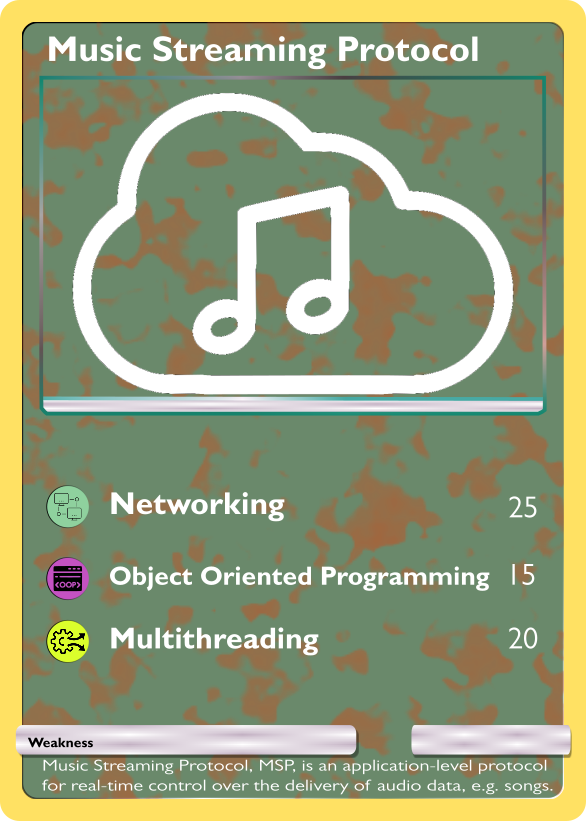
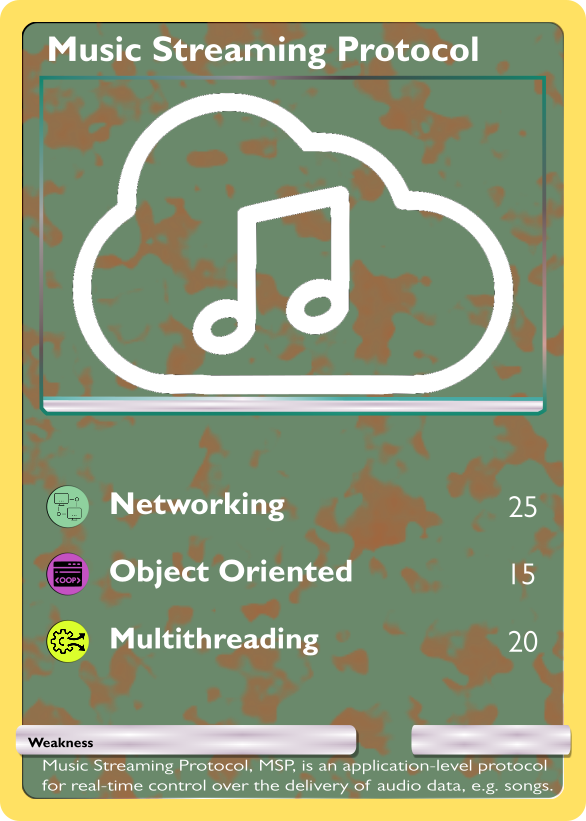
added alt text to cards 18

Changed region(s): [[0.1843, 0.6699, 0.8294, 0.7308], [0.0614, 0.6699, 0.1536, 0.7308], [0.8601, 0.7613, 0.9215, 0.7917]]

diff --git a/src/app/page.tsx b/src/app/page.tsx
@@ -31,22 +31,46 @@ export default function Home() {
     attributes: Big Data, Machine Learning, Data Visualization. 
     Description: Using feed forward neural networks and CSGO player statistics, a game result was predicted `;
 
-  let bicycle_gan_alt_text = `Implemented BicycleGAN which is an extension of CycleGAN that links basic GAN and VAE models in order to map an edge image into multiple RGB images
-  
-  
+  let bicycle_gan_alt_text = `
+  attributes: Machine Learning, Big Data, Research
+  Description:
+  Implemented BicycleGAN which is an extension of CycleGAN that links basic GAN and VAE models in order to map an edge image into multiple RGB images
   `
+  let kd_alt_text = `
+  attributes: Data Structures and Algorithims, Data Analytics, Image Processing :
+  Description: Using K-d trees, compressed the color space of an image while minimizing the variance between colors`
+  let nba_awards_alt_text = `
+  attributes: Data Structures and Algorithims, Web Scraping, Object Oriented
+  Description: Player awards are predicted using polynomial functions based on the current NBA stats`
+  let lyric_gen_alt_text = `
+  attributes:  Big Data, Machine Learning, API Usage
+  Description: Applied various machine learing models to the task of generating lyrics given a starting phrase`;
+  let nba_shot_chart_alt_text = `
+    attributes: Object Oriented, API Usage, Data Visualization
+  Description: Produces a visualization of player or team shot charts and compares the charts to league avgerage`;
+  let ram_design_alt_text = `
+    attributes: Circuit Design, Circuit Simulation, Circuit Optimization
+  Description: Using Electric and NgSpice, designed a 16 x 4 bit RAM array and tested read and write up 1GHZ`;
+  let music_streaming_alt_text = `
+    attributes: Networking, Object Oriented, Multithreading
+  Description: Music Streaming Protocol, MSP, is an application-level protocol for real-time control over the delivery of audio data, e.g. songs.`;
+  let snake_ai_alt_text = `
+    attributes: Data Structures and Algorithims,  Machine Learning, Q-Learning
+  Description: A naive approach to solving the game of snake using a Deep Q-Learning Model.`;
+  let adder_alt_text = `
+    attributes: Circuit Design, Circuit Simulation, Circuit Optimization
+  Description: Using Electric and NgSpice, designed and tested an 8-bit adder with several varation to the design  `
 
-
-  let cards = [ <ProjectCard key={0} project_svg_name="KdTreesCard.png" alt_text="" href="kd_trees"/>,
-    <ProjectCard key={1} project_svg_name="NbaAwardsCard.png" alt_text="" href="nba_awards_predictor"/>,
-    <ProjectCard key={2}  project_svg_name="BicycleGan.png" alt_text="" href="bicyclegan"/>,
-    <ProjectCard key={3} project_svg_name="LyricGenAI.png" alt_text="" href="lyric_gen"/>,
-    <ProjectCard key={4} project_svg_name="NbaShotChartCard.png" alt_text="" href="nba_shot_chart"/>,
-    <ProjectCard key={5} project_svg_name="RamCard.png" alt_text="" href="ram_design"/> ,
-    <ProjectCard key={6} project_svg_name="MusicStreamingCard.png" alt_text="" href="music_streaming"/>,
+  let cards = [ <ProjectCard key={0} project_svg_name="KdTreesCard.png" alt_text={kd_alt_text} href="kd_trees"/>,
+    <ProjectCard key={1} project_svg_name="NbaAwardsCard.png" alt_text={nba_awards_alt_text} href="nba_awards_predictor"/>,
+    <ProjectCard key={2}  project_svg_name="BicycleGan.png" alt_text={bicycle_gan_alt_text} href="bicyclegan"/>,
+    <ProjectCard key={3} project_svg_name="LyricGenAI.png" alt_text={lyric_gen_alt_text} href="lyric_gen"/>,
+    <ProjectCard key={4} project_svg_name="NbaShotChartCard.png" alt_text={nba_shot_chart_alt_text} href="nba_shot_chart"/>,
+    <ProjectCard key={5} project_svg_name="RamCard.png" alt_text={ram_design_alt_text} href="ram_design"/> ,
+    <ProjectCard key={6} project_svg_name="MusicStreamingCard.png" alt_text={music_streaming_alt_text} href="music_streaming"/>,
     <ProjectCard key={7} project_svg_name="CSGOCARD.png" alt_text={csgo_card_alt_text} href="csgo_predictor"/>,
-    <ProjectCard key={8} project_svg_name="SnakeAICard.png" alt_text="" href="simple_dqn" />,
-    <ProjectCard key={9} project_svg_name="AdderCard.png" alt_text="" href="adder" />]
+    <ProjectCard key={8} project_svg_name="SnakeAICard.png" alt_text={snake_ai_alt_text} href="simple_dqn" />,
+    <ProjectCard key={9} project_svg_name="AdderCard.png" alt_text={adder_alt_text} href="adder" />]
 
   
     const { ref, inView, entry } = useInView(
@@ -70,44 +94,22 @@ export default function Home() {
      
      <InView as="div" onChange={(inView, entry) => {entry.target.children[0].classList.add('show')}} className={`transition-opacity duration-1000 ${inView ? 'opacity-100 shown' : 'opacity-0'}`}>
       <div ref={ref}>
-          Lorem ipsum dolor sit amet, consectetur adipiscing elit. Quisque posuere tristique pretium. Aliquam malesuada laoreet sapien, eu feugiat ligula gravida in. Maecenas porta eu odio eget congue. Nulla turpis nisi, faucibus at vehicula et, sodales sit amet risus. Integer quis turpis porta, pellentesque neque id, tincidunt tellus. Etiam ligula erat, molestie ut laoreet id, hendrerit rhoncus justo. Aliquam dui felis, tristique at augue ac, vestibulum molestie nisi. Sed fermentum, erat quis molestie volutpat, ex sem ultricies magna, vel consequat enim lectus sed massa. Mauris eget justo feugiat dui volutpat vehicula a sit amet purus. Nullam tincidunt condimentum ligula, eget hendrerit nunc. Fusce sed lectus suscipit, dapibus velit convallis, rhoncus enim. Pellentesque vel metus id mi molestie laoreet. Sed sit amet ligula orci. Curabitur scelerisque ex nec felis lobortis hendrerit. Praesent vitae tincidunt metus. Pellentesque eu magna lacinia, cursus orci sed, convallis quam.
-
-        Fusce dictum ac ligula nec accumsan. Praesent non sapien vitae magna vestibulum tempus in vel metus. Nullam tincidunt venenatis felis, ut convallis risus lobortis id. Donec quam massa, sagittis nec tristique ac, tincidunt nec enim. Curabitur congue ultrices varius. Pellentesque pretium nunc non tellus tempor condimentum. Integer vel laoreet ante. Morbi tempor ut lorem ac iaculis. Vivamus ultricies tempor nisi, consectetur ullamcorper ex rutrum et. Curabitur rhoncus mattis odio non tincidunt.
-
-        Maecenas vel ante eu libero sodales ullamcorper nec nec ipsum. Vestibulum felis nulla, mattis eget aliquet non, suscipit non lectus. Maecenas egestas orci non leo ullamcorper volutpat. Donec lacus purus, hendrerit ut dignissim non, posuere id nisi. Quisque sagittis posuere orci quis ullamcorper. Integer turpis metus, bibendum et sagittis in, facilisis vel libero. Morbi ut nisl nibh. Suspendisse vel lacus lorem. Quisque vel leo eu augue porttitor convallis. Aliquam egestas ex at ullamcorper iaculis. Donec ut ante leo. Nam dignissim ante auctor mi suscipit, non auctor lorem volutpat. Nullam dolor nulla, malesuada scelerisque tempor sit amet, blandit nec lacus. Mauris aliquam dolor felis.
-
-        Mauris venenatis tincidunt tincidunt. Vestibulum non massa ut turpis lobortis volutpat. Suspendisse sodales dignissim velit, quis elementum ipsum feugiat tincidunt. Duis quam nunc, gravida ac nisi vel, lacinia consectetur tellus. Donec scelerisque ex nec lorem volutpat interdum. Cras ornare, diam eu rhoncus porta, ante urna tempus sapien, eget bibendum dolor tortor ac ex. Aliquam erat volutpat. Donec vitae dapibus massa. Ut a justo pellentesque, sagittis ex at, rhoncus lacus. Ut ac accumsan arcu. Curabitur aliquet euismod ipsum, ut ultricies mi efficitur posuere. Praesent fermentum tincidunt erat in cursus. Ut vestibulum lobortis consequat. Vestibulum dignissim nunc nec orci fringilla, et tempus ipsum consequat. Curabitur a tincidunt purus, eu euismod leo.
-
-        Vestibulum fermentum id dui ac interdum. Vivamus vel hendrerit sapien, nec maximus lorem. Nam pellentesque ullamcorper nunc. Aliquam aliquam tortor sed justo fermentum, a dignissim leo sollicitudin. Phasellus in nunc ultrices mi aliquet consectetur ac vitae mauris. Donec eu sollicitudin dui, et aliquam felis. Morbi semper at massa vel vestibulum. Nam sagittis pellentesque nunc ut dapibus. Nulla cursus, orci at mattis posuere, sem leo scelerisque mi, quis scelerisque mi diam eu eros.
-        Lorem ipsum dolor sit amet, consectetur adipiscing elit. Quisque posuere tristique pretium. Aliquam malesuada laoreet sapien, eu feugiat ligula gravida in. Maecenas porta eu odio eget congue. Nulla turpis nisi, faucibus at vehicula et, sodales sit amet risus. Integer quis turpis porta, pellentesque neque id, tincidunt tellus. Etiam ligula erat, molestie ut laoreet id, hendrerit rhoncus justo. Aliquam dui felis, tristique at augue ac, vestibulum molestie nisi. Sed fermentum, erat quis molestie volutpat, ex sem ultricies magna, vel consequat enim lectus sed massa. Mauris eget justo feugiat dui volutpat vehicula a sit amet purus. Nullam tincidunt condimentum ligula, eget hendrerit nunc. Fusce sed lectus suscipit, dapibus velit convallis, rhoncus enim. Pellentesque vel metus id mi molestie laoreet. Sed sit amet ligula orci. Curabitur scelerisque ex nec felis lobortis hendrerit. Praesent vitae tincidunt metus. Pellentesque eu magna lacinia, cursus orci sed, convallis quam.
-
-        Fusce dictum ac ligula nec accumsan. Praesent non sapien vitae magna vestibulum tempus in vel metus. Nullam tincidunt venenatis felis, ut convallis risus lobortis id. Donec quam massa, sagittis nec tristique ac, tincidunt nec enim. Curabitur congue ultrices varius. Pellentesque pretium nunc non tellus tempor condimentum. Integer vel laoreet ante. Morbi tempor ut lorem ac iaculis. Vivamus ultricies tempor nisi, consectetur ullamcorper ex rutrum et. Curabitur rhoncus mattis odio non tincidunt.
-
-        Maecenas vel ante eu libero sodales ullamcorper nec nec ipsum. Vestibulum felis nulla, mattis eget aliquet non, suscipit non lectus. Maecenas egestas orci non leo ullamcorper volutpat. Donec lacus purus, hendrerit ut dignissim non, posuere id nisi. Quisque sagittis posuere orci quis ullamcorper. Integer turpis metus, bibendum et sagittis in, facilisis vel libero. Morbi ut nisl nibh. Suspendisse vel lacus lorem. Quisque vel leo eu augue porttitor convallis. Aliquam egestas ex at ullamcorper iaculis. Donec ut ante leo. Nam dignissim ante auctor mi suscipit, non auctor lorem volutpat. Nullam dolor nulla, malesuada scelerisque tempor sit amet, blandit nec lacus. Mauris aliquam dolor felis.
-
-        Mauris venenatis tincidunt tincidunt. Vestibulum non massa ut turpis lobortis volutpat. Suspendisse sodales dignissim velit, quis elementum ipsum feugiat tincidunt. Duis quam nunc, gravida ac nisi vel, lacinia consectetur tellus. Donec scelerisque ex nec lorem volutpat interdum. Cras ornare, diam eu rhoncus porta, ante urna tempus sapien, eget bibendum dolor tortor ac ex. Aliquam erat volutpat. Donec vitae dapibus massa. Ut a justo pellentesque, sagittis ex at, rhoncus lacus. Ut ac accumsan arcu. Curabitur aliquet euismod ipsum, ut ultricies mi efficitur posuere. Praesent fermentum tincidunt erat in cursus. Ut vestibulum lobortis consequat. Vestibulum dignissim nunc nec orci fringilla, et tempus ipsum consequat. Curabitur a tincidunt purus, eu euismod leo.
-
-        Vestibulum fermentum id dui ac interdum. Vivamus vel hendrerit sapien, nec maximus lorem. Nam pellentesque ullamcorper nunc. Aliquam aliquam tortor sed justo fermentum, a dignissim leo sollicitudin. Phasellus in nunc ultrices mi aliquet consectetur ac vitae mauris. Donec eu sollicitudin dui, et aliquam felis. Morbi semper at massa vel vestibulum. Nam sagittis pellentesque nunc ut dapibus. Nulla cursus, orci at mattis posuere, sem leo scelerisque mi, quis scelerisque mi diam eu eros.
-        Lorem ipsum dolor sit amet, consectetur adipiscing elit. Quisque posuere tristique pretium. Aliquam malesuada laoreet sapien, eu feugiat ligula gravida in. Maecenas porta eu odio eget congue. Nulla turpis nisi, faucibus at vehicula et, sodales sit amet risus. Integer quis turpis porta, pellentesque neque id, tincidunt tellus. Etiam ligula erat, molestie ut laoreet id, hendrerit rhoncus justo. Aliquam dui felis, tristique at augue ac, vestibulum molestie nisi. Sed fermentum, erat quis molestie volutpat, ex sem ultricies magna, vel consequat enim lectus sed massa. Mauris eget justo feugiat dui volutpat vehicula a sit amet purus. Nullam tincidunt condimentum ligula, eget hendrerit nunc. Fusce sed lectus suscipit, dapibus velit convallis, rhoncus enim. Pellentesque vel metus id mi molestie laoreet. Sed sit amet ligula orci. Curabitur scelerisque ex nec felis lobortis hendrerit. Praesent vitae tincidunt metus. Pellentesque eu magna lacinia, cursus orci sed, convallis quam.
-
-        Fusce dictum ac ligula nec accumsan. Praesent non sapien vitae magna vestibulum tempus in vel metus. Nullam tincidunt venenatis felis, ut convallis risus lobortis id. Donec quam massa, sagittis nec tristique ac, tincidunt nec enim. Curabitur congue ultrices varius. Pellentesque pretium nunc non tellus tempor condimentum. Integer vel laoreet ante. Morbi tempor ut lorem ac iaculis. Vivamus ultricies tempor nisi, consectetur ullamcorper ex rutrum et. Curabitur rhoncus mattis odio non tincidunt.
-
-        Maecenas vel ante eu libero sodales ullamcorper nec nec ipsum. Vestibulum felis nulla, mattis eget aliquet non, suscipit non lectus. Maecenas egestas orci non leo ullamcorper volutpat. Donec lacus purus, hendrerit ut dignissim non, posuere id nisi. Quisque sagittis posuere orci quis ullamcorper. Integer turpis metus, bibendum et sagittis in, facilisis vel libero. Morbi ut nisl nibh. Suspendisse vel lacus lorem. Quisque vel leo eu augue porttitor convallis. Aliquam egestas ex at ullamcorper iaculis. Donec ut ante leo. Nam dignissim ante auctor mi suscipit, non auctor lorem volutpat. Nullam dolor nulla, malesuada scelerisque tempor sit amet, blandit nec lacus. Mauris aliquam dolor felis.
-
-        Mauris venenatis tincidunt tincidunt. Vestibulum non massa ut turpis lobortis volutpat. Suspendisse sodales dignissim velit, quis elementum ipsum feugiat tincidunt. Duis quam nunc, gravida ac nisi vel, lacinia consectetur tellus. Donec scelerisque ex nec lorem volutpat interdum. Cras ornare, diam eu rhoncus porta, ante urna tempus sapien, eget bibendum dolor tortor ac ex. Aliquam erat volutpat. Donec vitae dapibus massa. Ut a justo pellentesque, sagittis ex at, rhoncus lacus. Ut ac accumsan arcu. Curabitur aliquet euismod ipsum, ut ultricies mi efficitur posuere. Praesent fermentum tincidunt erat in cursus. Ut vestibulum lobortis consequat. Vestibulum dignissim nunc nec orci fringilla, et tempus ipsum consequat. Curabitur a tincidunt purus, eu euismod leo.
-
-        Vestibulum fermentum id dui ac interdum. Vivamus vel hendrerit sapien, nec maximus lorem. Nam pellentesque ullamcorper nunc. Aliquam aliquam tortor sed justo fermentum, a dignissim leo sollicitudin. Phasellus in nunc ultrices mi aliquet consectetur ac vitae mauris. Donec eu sollicitudin dui, et aliquam felis. Morbi semper at massa vel vestibulum. Nam sagittis pellentesque nunc ut dapibus. Nulla cursus, orci at mattis posuere, sem leo scelerisque mi, quis scelerisque mi diam eu eros.
-        Lorem ipsum dolor sit amet, consectetur adipiscing elit. Quisque posuere tristique pretium. Aliquam malesuada laoreet sapien, eu feugiat ligula gravida in. Maecenas porta eu odio eget congue. Nulla turpis nisi, faucibus at vehicula et, sodales sit amet risus. Integer quis turpis porta, pellentesque neque id, tincidunt tellus. Etiam ligula erat, molestie ut laoreet id, hendrerit rhoncus justo. Aliquam dui felis, tristique at augue ac, vestibulum molestie nisi. Sed fermentum, erat quis molestie volutpat, ex sem ultricies magna, vel consequat enim lectus sed massa. Mauris eget justo feugiat dui volutpat vehicula a sit amet purus. Nullam tincidunt condimentum ligula, eget hendrerit nunc. Fusce sed lectus suscipit, dapibus velit convallis, rhoncus enim. Pellentesque vel metus id mi molestie laoreet. Sed sit amet ligula orci. Curabitur scelerisque ex nec felis lobortis hendrerit. Praesent vitae tincidunt metus. Pellentesque eu magna lacinia, cursus orci sed, convallis quam.
-
-        Fusce dictum ac ligula nec accumsan. Praesent non sapien vitae magna vestibulum tempus in vel metus. Nullam tincidunt venenatis felis, ut convallis risus lobortis id. Donec quam massa, sagittis nec tristique ac, tincidunt nec enim. Curabitur congue ultrices varius. Pellentesque pretium nunc non tellus tempor condimentum. Integer vel laoreet ante. Morbi tempor ut lorem ac iaculis. Vivamus ultricies tempor nisi, consectetur ullamcorper ex rutrum et. Curabitur rhoncus mattis odio non tincidunt.
-
-        Maecenas vel ante eu libero sodales ullamcorper nec nec ipsum. Vestibulum felis nulla, mattis eget aliquet non, suscipit non lectus. Maecenas egestas orci non leo ullamcorper volutpat. Donec lacus purus, hendrerit ut dignissim non, posuere id nisi. Quisque sagittis posuere orci quis ullamcorper. Integer turpis metus, bibendum et sagittis in, facilisis vel libero. Morbi ut nisl nibh. Suspendisse vel lacus lorem. Quisque vel leo eu augue porttitor convallis. Aliquam egestas ex at ullamcorper iaculis. Donec ut ante leo. Nam dignissim ante auctor mi suscipit, non auctor lorem volutpat. Nullam dolor nulla, malesuada scelerisque tempor sit amet, blandit nec lacus. Mauris aliquam dolor felis.
-
-        Mauris venenatis tincidunt tincidunt. Vestibulum non massa ut turpis lobortis volutpat. Suspendisse sodales dignissim velit, quis elementum ipsum feugiat tincidunt. Duis quam nunc, gravida ac nisi vel, lacinia consectetur tellus. Donec scelerisque ex nec lorem volutpat interdum. Cras ornare, diam eu rhoncus porta, ante urna tempus sapien, eget bibendum dolor tortor ac ex. Aliquam erat volutpat. Donec vitae dapibus massa. Ut a justo pellentesque, sagittis ex at, rhoncus lacus. Ut ac accumsan arcu. Curabitur aliquet euismod ipsum, ut ultricies mi efficitur posuere. Praesent fermentum tincidunt erat in cursus. Ut vestibulum lobortis consequat. Vestibulum dignissim nunc nec orci fringilla, et tempus ipsum consequat. Curabitur a tincidunt purus, eu euismod leo.
-
-        Vestibulum fermentum id dui ac interdum. Vivamus vel hendrerit sapien, nec maximus lorem. Nam pellentesque ullamcorper nunc. Aliquam aliquam tortor sed justo fermentum, a dignissim leo sollicitudin. Phasellus in nunc ultrices mi aliquet consectetur ac vitae mauris. Donec eu sollicitudin dui, et aliquam felis. Morbi semper at massa vel vestibulum. Nam sagittis pellentesque nunc ut dapibus. Nulla cursus, orci at mattis posuere, sem leo scelerisque mi, quis scelerisque mi diam eu eros.
-        </div>    
-        </InView>
+        <p>
+          Hi, I'm Abel Chacko. I'm currently working as a Platform Application Engineer at Intel. My role entails enabling customers to use our FlexRAN software for their RAN solutions. 
+          Helping them solve issues from system enablement to setting up a full end-to-end 5G stack.
+          I graduated from the University of Pennsylvania in 2022 with my Master's in Robotics and Bachelor's in Computer Engineering. 
+          
+          I'll finish this description later
+        </p>
+          
+      </div>    
+      <br/>
+      <br/>
+      <br/>
+      <br/>
+      <br/>
+      <br/>
+      </InView>
     <section>
     <br></br>
     {project_title}
